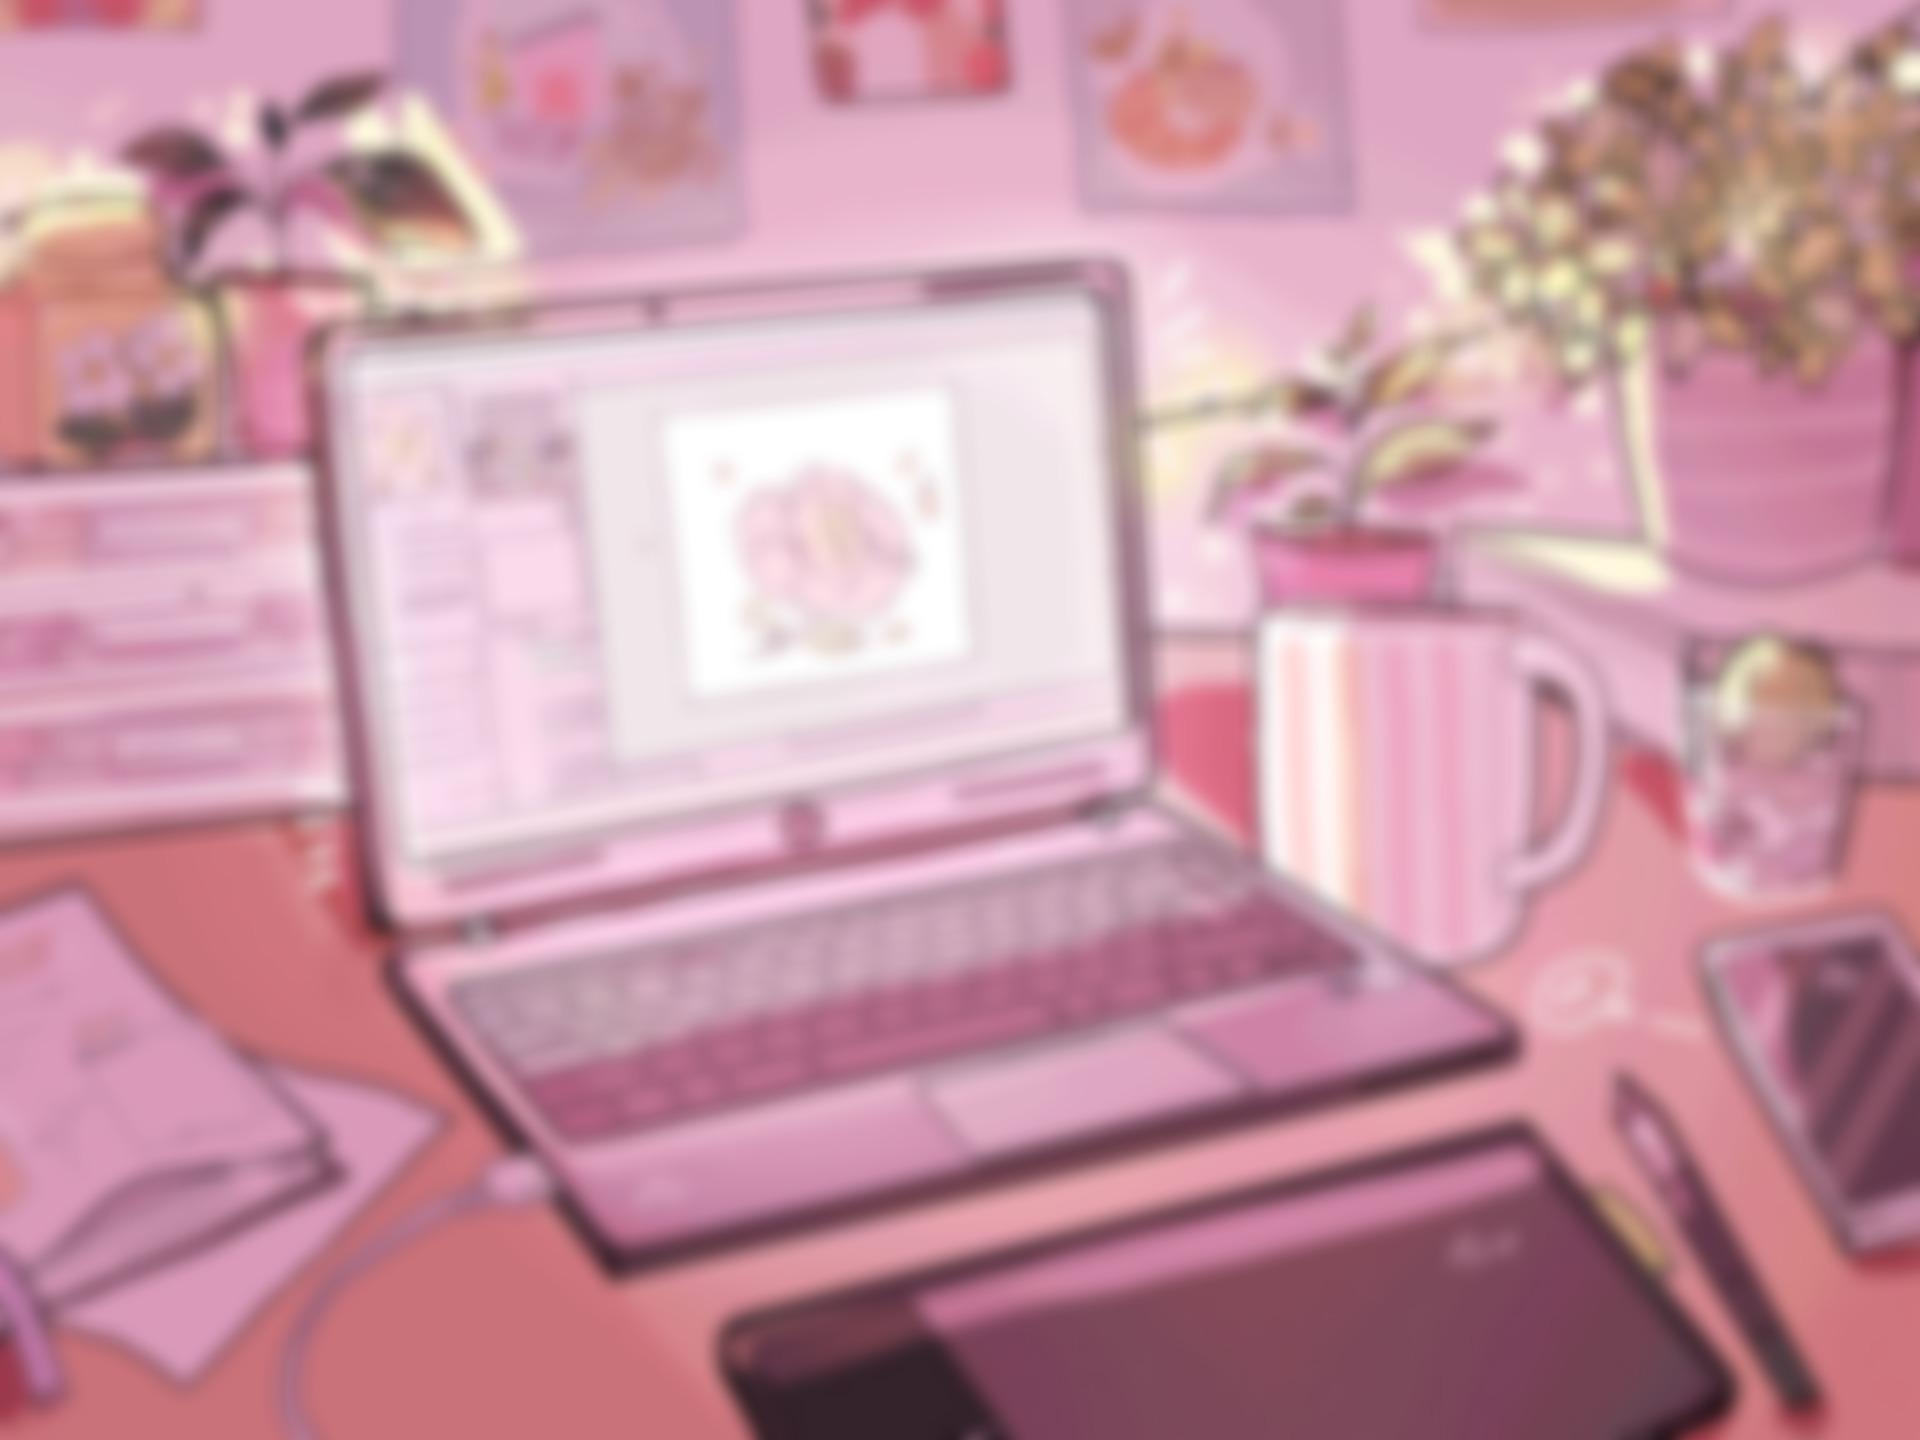
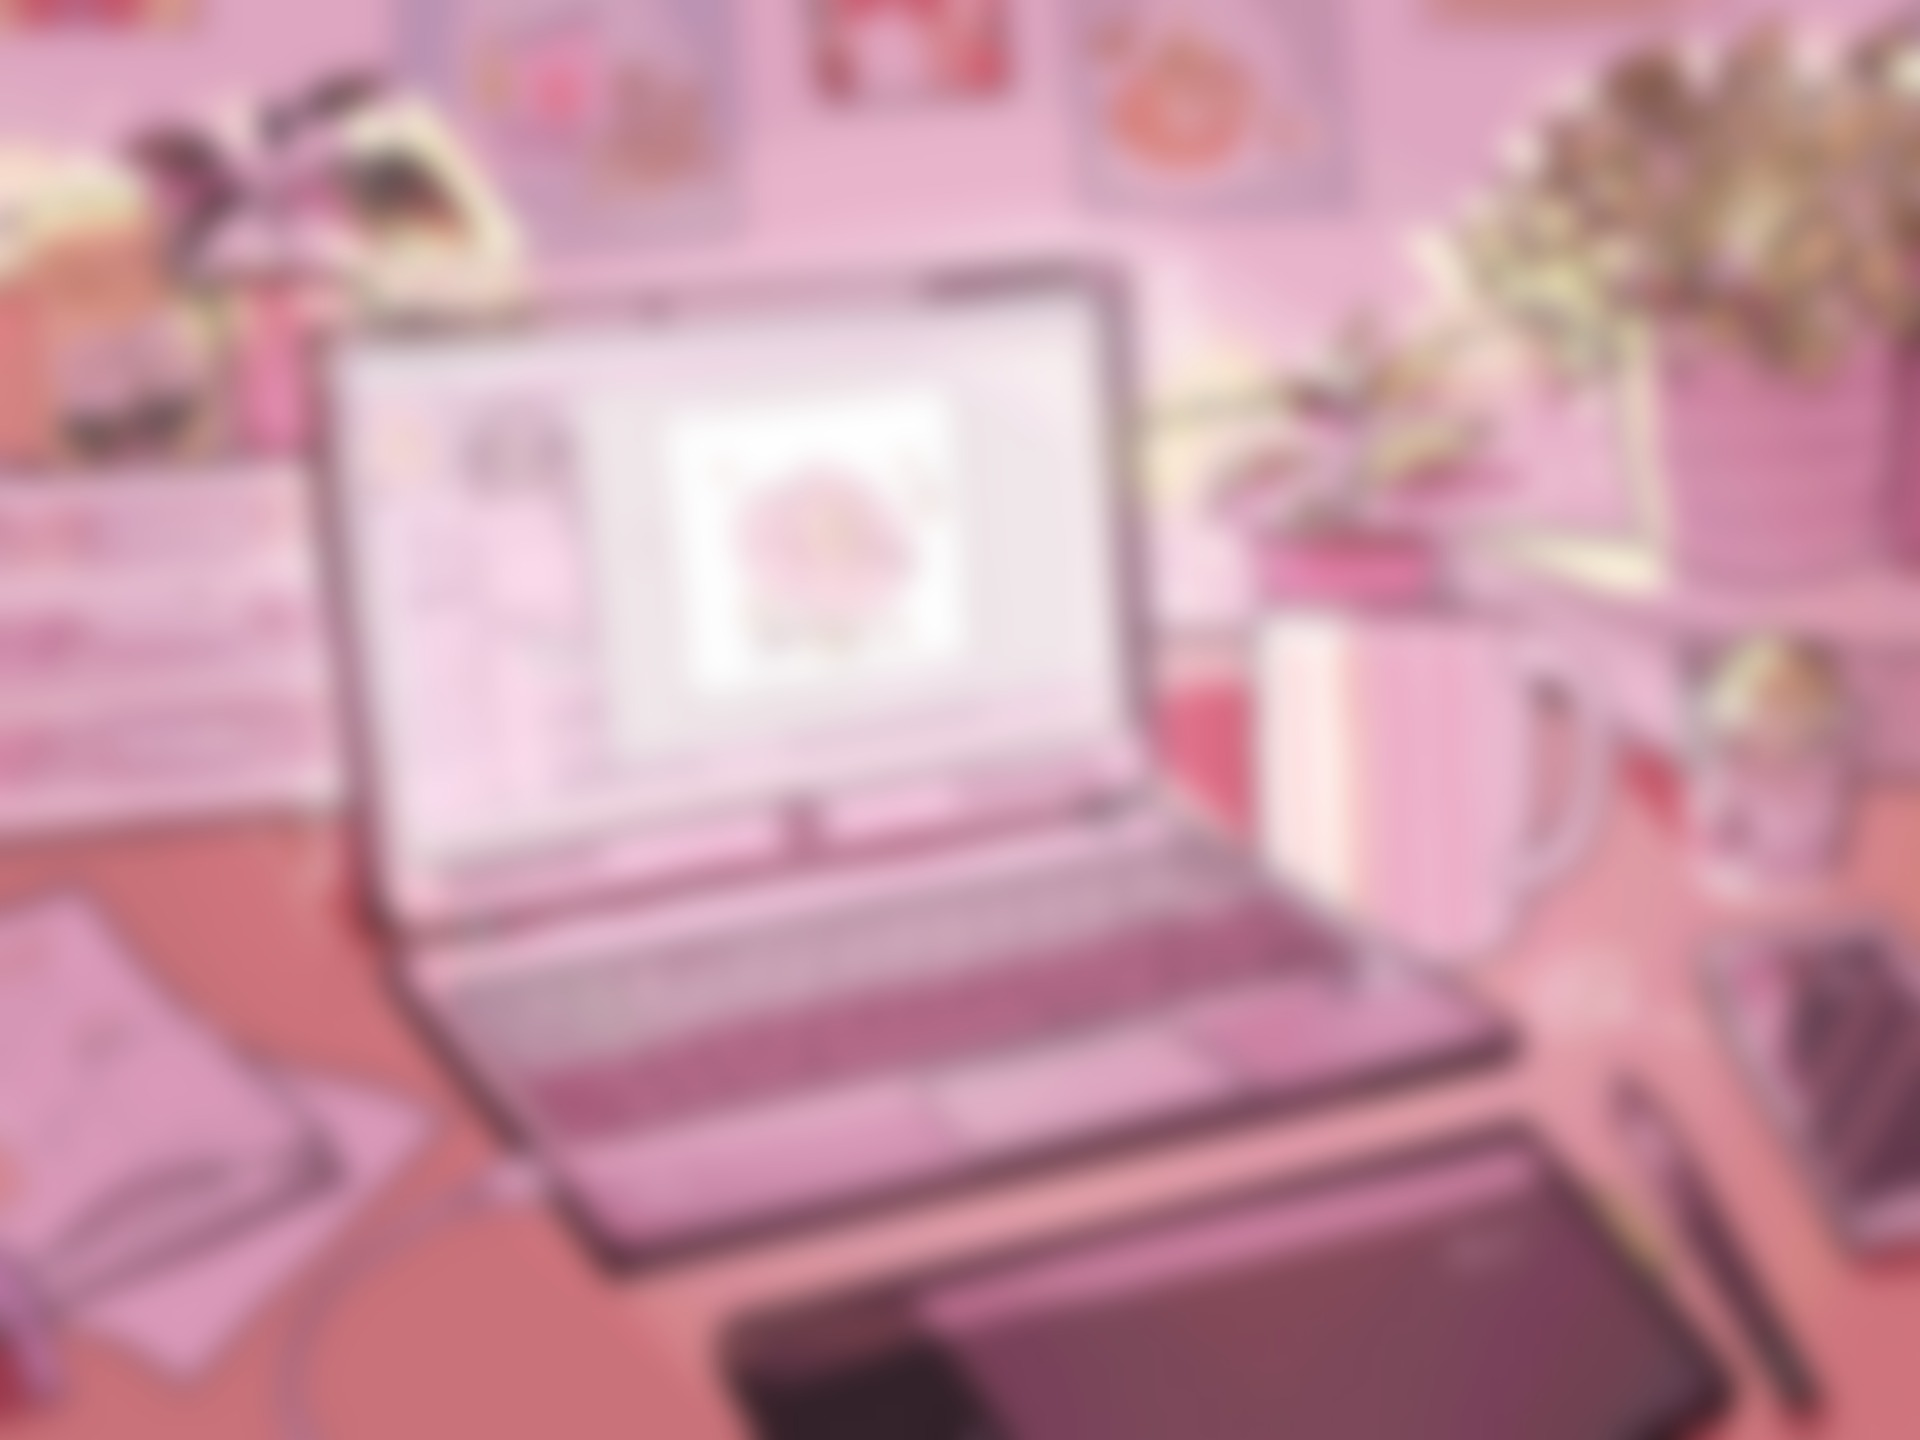
Added content to the pages

diff --git a/app/projects/page.js b/app/projects/page.js
@@ -1,8 +1,131 @@
+import Image from "next/image";
+
 export default function Projects() {
     return (
-      <div className="flex items-center justify-center min-h-screen">
-        <h1 className="text-3xl font-bold">Projects Page</h1>
-      </div>
-    );
+        <div className="bg-gray-100 text-black grid grid-rows-[20px_1fr_20px] items-center justify-items-center min-h-screen p-8 pb-20 gap-16 sm:p-20 font-[family-name:var(--font-geist-sans)]" style={{backgroundImage: "url('/background.jpg')"}}>
+            <main className="flex flex-col gap-8 row-start-2 items-center sm:items-start">
+            <h1 className="text-4xl font-bold text-center sm:text-left">Projects</h1>
+            <p className="text-xl text-center sm:text-left">You can check out my projects below! I'm always working on something, so this page will be updated very frequently. I am also planning on adding live demos for these!</p>
+            <div className="grid grid-cols-1 sm:grid-cols-2 lg:grid-cols-3 gap-8">
+                <div className="bg-white shadow-lg rounded-lg p-4">
+                    <img src="/2D-Game-Demonstration.gif" alt="Project Screenshot" className="w-full h-48 object-cover rounded-t-lg" />
+                    <h3 className="text-2xl font-bold mt-4">2D Top-Down Pixel Game in Unity</h3>
+                    <p className="text-gray-700 mt-2">Status: WIP</p>
+                    <p className="text-gray-700 mt-2">This is a simple 2D game that is currently in its (very) early stages. I'm currently working on this, and I'm having such a blast learning how to develop games. I am expecting to finish it February 14 and will publish a live demo of it!</p>
+                    <p className="text-gray-700 mt-2">Languages: C#</p>
+                    <p className="text-gray-700 mt-2">Technologies: Unity</p>
+                    <div className="mt-4 flex gap-4">
+                        <a href="https://github.com/fastcar181/Love-Letter-Delivery" className="text-blue-500 hover:underline">GitHub Repo</a>
+                    </div>
+                </div>
+                <div className="bg-white shadow-lg rounded-lg p-4">
+                    <img src="/Steam-Stats-Demonstration.png" alt="Project Screenshot" className="w-full h-48 object-cover rounded-t-lg" />
+                    <h3 className="text-2xl font-bold mt-4">Steam API Integration Application</h3>
+                    <p className="text-gray-700 mt-2">Status: Complete</p>
+                    <p className="text-gray-700 mt-2">This is a simple application that lets the user enter their Steam ID to lookup some stats, notably their list of games and playtimes for each. The profiles are saved to a database where it can be accessed later and a graph, relating to a player's preferred genre, can be generated and viewed. While it is complete, I am currently trying to turn this project from an API integration project to an API development one before I deploy it!</p>
+                    <p className="text-gray-700 mt-2">Languages: Python, SQL</p>
+                    <p className="text-gray-700 mt-2">Technologies: Streamlit</p>
+                    <div className="mt-4 flex gap-4">
+                        <a href="https://github.com/fastcar181/steam-statistics" className="text-blue-500 hover:underline">GitHub Repo</a>
+                    </div>
+                </div>
+                <div className="bg-white shadow-lg rounded-lg p-4">
+                    <img src="/Robot-Program-Demonstration.png" alt="Project Screenshot" className="w-full h-48 object-cover rounded-t-lg" />
+                    <h3 className="text-2xl font-bold mt-4">Robot Delivery Program</h3>
+                    <p className="text-gray-700 mt-2">Status: Complete</p>
+                    <p className="text-gray-700 mt-2">This was a final collaborative project for a second-year robotics course where the goal was to have three robots deliver two jars of three different colours. This involved figuring out a search algorithm, collision-free navigation, and the use of state machines for the logic of the program.</p>
+                    <p className="text-gray-700 mt-2">Languages: Java</p>
+                    <p className="text-gray-700 mt-2">Technologies: Webots</p>
+                </div>
+            </div>
+
+            <div className="flex gap-4 items-center flex-col sm:flex-row">
+              <a
+                className="rounded-full border border-solid border-transparent transition-colors flex items-center justify-center bg-foreground text-background gap-2 hover:bg-[#383838] dark:hover:bg-[#ccc] text-sm sm:text-base h-10 sm:h-12 px-4 sm:px-5"
+                href="/"
+                rel="noopener noreferrer"
+              >
+                <Image
+                  src="/mmb1.png"
+                  alt="White bear holding a heart"
+                  width={20}
+                  height={20}
+                />
+                Home
+              </a>
+              <a
+                className="rounded-full border border-solid border-transparent transition-colors flex items-center justify-center bg-foreground text-background gap-2 hover:bg-[#383838] dark:hover:bg-[#ccc] text-sm sm:text-base h-10 sm:h-12 px-4 sm:px-5"
+                href="/about"
+                rel="noopener noreferrer"
+              >
+                <Image
+                  src="/mmb2.png"
+                  alt="Brown bear reading a book"
+                  width={20}
+                  height={20}
+                />
+                About
+              </a>
+              <a
+                className="rounded-full border border-solid border-transparent transition-colors flex items-center justify-center bg-foreground text-background gap-2 hover:bg-[#383838] dark:hover:bg-[#ccc] text-sm sm:text-base h-10 sm:h-12 px-4 sm:px-5"
+                href="/contact"
+                rel="noopener noreferrer"
+              >
+                <Image
+                  src="/mmb3.png"
+                  alt="White bear wearing a brown suit"
+                  width={20}
+                  height={20}
+                />
+                Contact
+              </a>
+            </div>
+          </main>
+          <footer className="row-start-3 flex gap-6 flex-wrap items-center justify-center">
+            <a
+              className="flex items-center gap-2 hover:underline hover:underline-offset-4"
+              href="https://github.com/fastcar181"
+              target="_blank"
+              rel="noopener noreferrer"
+            >
+              <Image
+                aria-hidden
+                src="/github.svg"
+                alt="GitHub icon"
+                width={16}
+                height={16}
+              />
+            </a>
+            <a
+              className="flex items-center gap-2 hover:underline hover:underline-offset-4"
+              href="mailto:gracele@cmail.carleton.ca"
+              target="_blank"
+              rel="noopener noreferrer"
+            >
+              <Image
+                aria-hidden
+                src="/outlook.svg"
+                alt="Outlook icon"
+                width={16}
+                height={16}
+              />
+            </a>
+            <a
+              className="flex items-center gap-2 hover:underline hover:underline-offset-4"
+              href="www.linkedin.com/in/grace-le-a8a146221"
+              target="_blank"
+              rel="noopener noreferrer"
+            >
+              <Image
+                aria-hidden
+                src="/linkedin.svg"
+                alt="LinkedIn icon"
+                width={16}
+                height={16}
+              />
+            </a>
+          </footer>
+        </div>
+      );
   }
   

diff --git a/app/contact/page.js b/app/contact/page.js
@@ -1,27 +1,11 @@
 import Image from "next/image";
 
-export default function About() {
+export default function Contact() {
     return (
         <div className="bg-gray-100 text-black grid grid-rows-[20px_1fr_20px] items-center justify-items-center min-h-screen p-8 pb-20 gap-16 sm:p-20 font-[family-name:var(--font-geist-sans)]" style={{backgroundImage: "url('/background.jpg')"}}>
             <main className="flex flex-col gap-8 row-start-2 items-center sm:items-start">
-            <h1 className="text-4xl font-bold text-center sm:text-left">About Me</h1>
-            <p className="text-xl text-center sm:text-left">Hi! I'm Grace Le, a second-year computer science student with a concentration in Artificial Intelligence and Machine Learning at Carleton University! I am currently seeking a co-op position beginning May 2025 for 4/8 months, interested in software engineering, game development, and machine learning. I made this portfolio because I wasn't happy with my previous one, so I decided to learn Next.js to create a portfolio I'm proud of. This portfolio is currently in its early stages, and I am so excited to expand on this, creating a dynamic and fluid page that reflects who I am as a person!</p>
-            <h1 className="text-4xl font-bold text-center sm:text-left">Programming Skillset</h1>
-            <div className="flex justify-center gap-8 py-8">
-                <img src="https://cdn.jsdelivr.net/gh/devicons/devicon@latest/icons/python/python-original.svg" className="h-16"/>
-                <img src="https://cdn.jsdelivr.net/gh/devicons/devicon@latest/icons/java/java-original.svg" className="h-16"/>               
-                <img src="https://cdn.jsdelivr.net/gh/devicons/devicon@latest/icons/html5/html5-original.svg" className="h-16"/>
-                <img src="https://cdn.jsdelivr.net/gh/devicons/devicon@latest/icons/css3/css3-original.svg" className="h-16"/>
-                <img src="https://cdn.jsdelivr.net/gh/devicons/devicon@latest/icons/javascript/javascript-original.svg" className="h-16"/>
-                <img src="https://cdn.jsdelivr.net/gh/devicons/devicon@latest/icons/c/c-original.svg" className="h-16"/>
-                <img src="https://cdn.jsdelivr.net/gh/devicons/devicon@latest/icons/cplusplus/cplusplus-original.svg" className="h-16" />
-                <img src="https://cdn.jsdelivr.net/gh/devicons/devicon@latest/icons/csharp/csharp-original.svg" className="h-16"/>
-            </div>
-            <h1 className="text-4xl font-bold text-center sm:text-left">Personal Interests</h1>
-            <p className="text-xl text-center sm:text-left">When I'm not coding, I enjoy doing various things like playing games with friends, reading a book, listening to music, and collecting trading cards. Some of my favourite things at the moment are:</p>
-            <div className="grid grid-cols-1 sm:grid-cols-2 lg:grid-cols-3 gap-8">
-                <iframe style={{ borderRadius: "12px" }} src="https://open.spotify.com/embed/track/04mlpyRplis2yvf18EwaeN?utm_source=generator" width="100%" height="100" frameBorder="0" allow="autoplay; clipboard-write; encrypted-media; fullscreen; picture-in-picture" loading="lazy"></iframe>
-            </div>
+            <h1 className="text-4xl font-bold text-center sm:text-left">Contact</h1>
+            <p className="text-xl text-center sm:text-left">Please feel free to contact me through my email: gracele@cmail.carleton.ca, or click the Outlook icon below to send me an email!</p>
             <div className="flex gap-4 items-center flex-col sm:flex-row">
               <a
                 className="rounded-full border border-solid border-transparent transition-colors flex items-center justify-center bg-foreground text-background gap-2 hover:bg-[#383838] dark:hover:bg-[#ccc] text-sm sm:text-base h-10 sm:h-12 px-4 sm:px-5"
@@ -38,7 +22,7 @@ export default function About() {
               </a>
               <a
                 className="rounded-full border border-solid border-transparent transition-colors flex items-center justify-center bg-foreground text-background gap-2 hover:bg-[#383838] dark:hover:bg-[#ccc] text-sm sm:text-base h-10 sm:h-12 px-4 sm:px-5"
-                href="/projects"
+                href="/about"
                 rel="noopener noreferrer"
               >
                 <Image
@@ -47,11 +31,11 @@ export default function About() {
                   width={20}
                   height={20}
                 />
-                Projects
+                About
               </a>
               <a
                 className="rounded-full border border-solid border-transparent transition-colors flex items-center justify-center bg-foreground text-background gap-2 hover:bg-[#383838] dark:hover:bg-[#ccc] text-sm sm:text-base h-10 sm:h-12 px-4 sm:px-5"
-                href="/contact"
+                href="/projects"
                 rel="noopener noreferrer"
               >
                 <Image
@@ -60,7 +44,7 @@ export default function About() {
                   width={20}
                   height={20}
                 />
-                Contact
+                Projects
               </a>
             </div>
           </main>

diff --git a/app/page.js b/app/page.js
@@ -10,25 +10,23 @@ export default function Home() {
           <a
             className="rounded-full border border-solid border-transparent transition-colors flex items-center justify-center bg-foreground text-background gap-2 hover:bg-[#383838] dark:hover:bg-[#ccc] text-sm sm:text-base h-10 sm:h-12 px-4 sm:px-5"
             href="/about"
-            target="_blank"
             rel="noopener noreferrer"
           >
             <Image
-              src="/milk.png"
-              alt="Vercel logomark"
+              src="/mmb1.png"
+              alt="White bear holding a heart"
               width={20}
               height={20}
             />
-            About Me
+            About
           </a>
           <a
             className="rounded-full border border-solid border-transparent transition-colors flex items-center justify-center bg-foreground text-background gap-2 hover:bg-[#383838] dark:hover:bg-[#ccc] text-sm sm:text-base h-10 sm:h-12 px-4 sm:px-5"
             href="/projects"
-            target="_blank"
             rel="noopener noreferrer"
           >
             <Image
-              src="/mocha.png"
+              src="/mmb2.png"
               alt="Brown bear reading a book"
               width={20}
               height={20}
@@ -37,13 +35,12 @@ export default function Home() {
           </a>
           <a
             className="rounded-full border border-solid border-transparent transition-colors flex items-center justify-center bg-foreground text-background gap-2 hover:bg-[#383838] dark:hover:bg-[#ccc] text-sm sm:text-base h-10 sm:h-12 px-4 sm:px-5"
-            href="/projects"
-            target="_blank"
+            href="/contact"
             rel="noopener noreferrer"
           >
             <Image
-              src="/mocha.png"
-              alt="Brown bear reading a book"
+              src="/mmb3.png"
+              alt="White bear wearing a brown suit"
               width={20}
               height={20}
             />
@@ -60,7 +57,7 @@ export default function Home() {
         >
           <Image
             aria-hidden
-            src="/github-mark.svg"
+            src="/github.svg"
             alt="GitHub icon"
             width={16}
             height={16}
@@ -89,7 +86,7 @@ export default function Home() {
           <Image
             aria-hidden
             src="/linkedin.svg"
-            alt="Globe icon"
+            alt="LinkedIn icon"
             width={16}
             height={16}
           />

diff --git a/app/globals.css b/app/globals.css
@@ -18,5 +18,17 @@ body {
   color: var(--foreground);
   background: var(--background);
   font-family: Arial, Helvetica, sans-serif;
-  background-image: url(../public/pinkbackground.jpg);
+  opacity: 0;
+  animation: fadeIn 2s forwards;
+}
+
+@keyframes fadeIn {
+  0% {
+    opacity: 0;
+    background: white;
+  }
+  100% {
+    opacity: 1;
+    background: var(--background);
+  }
 }
